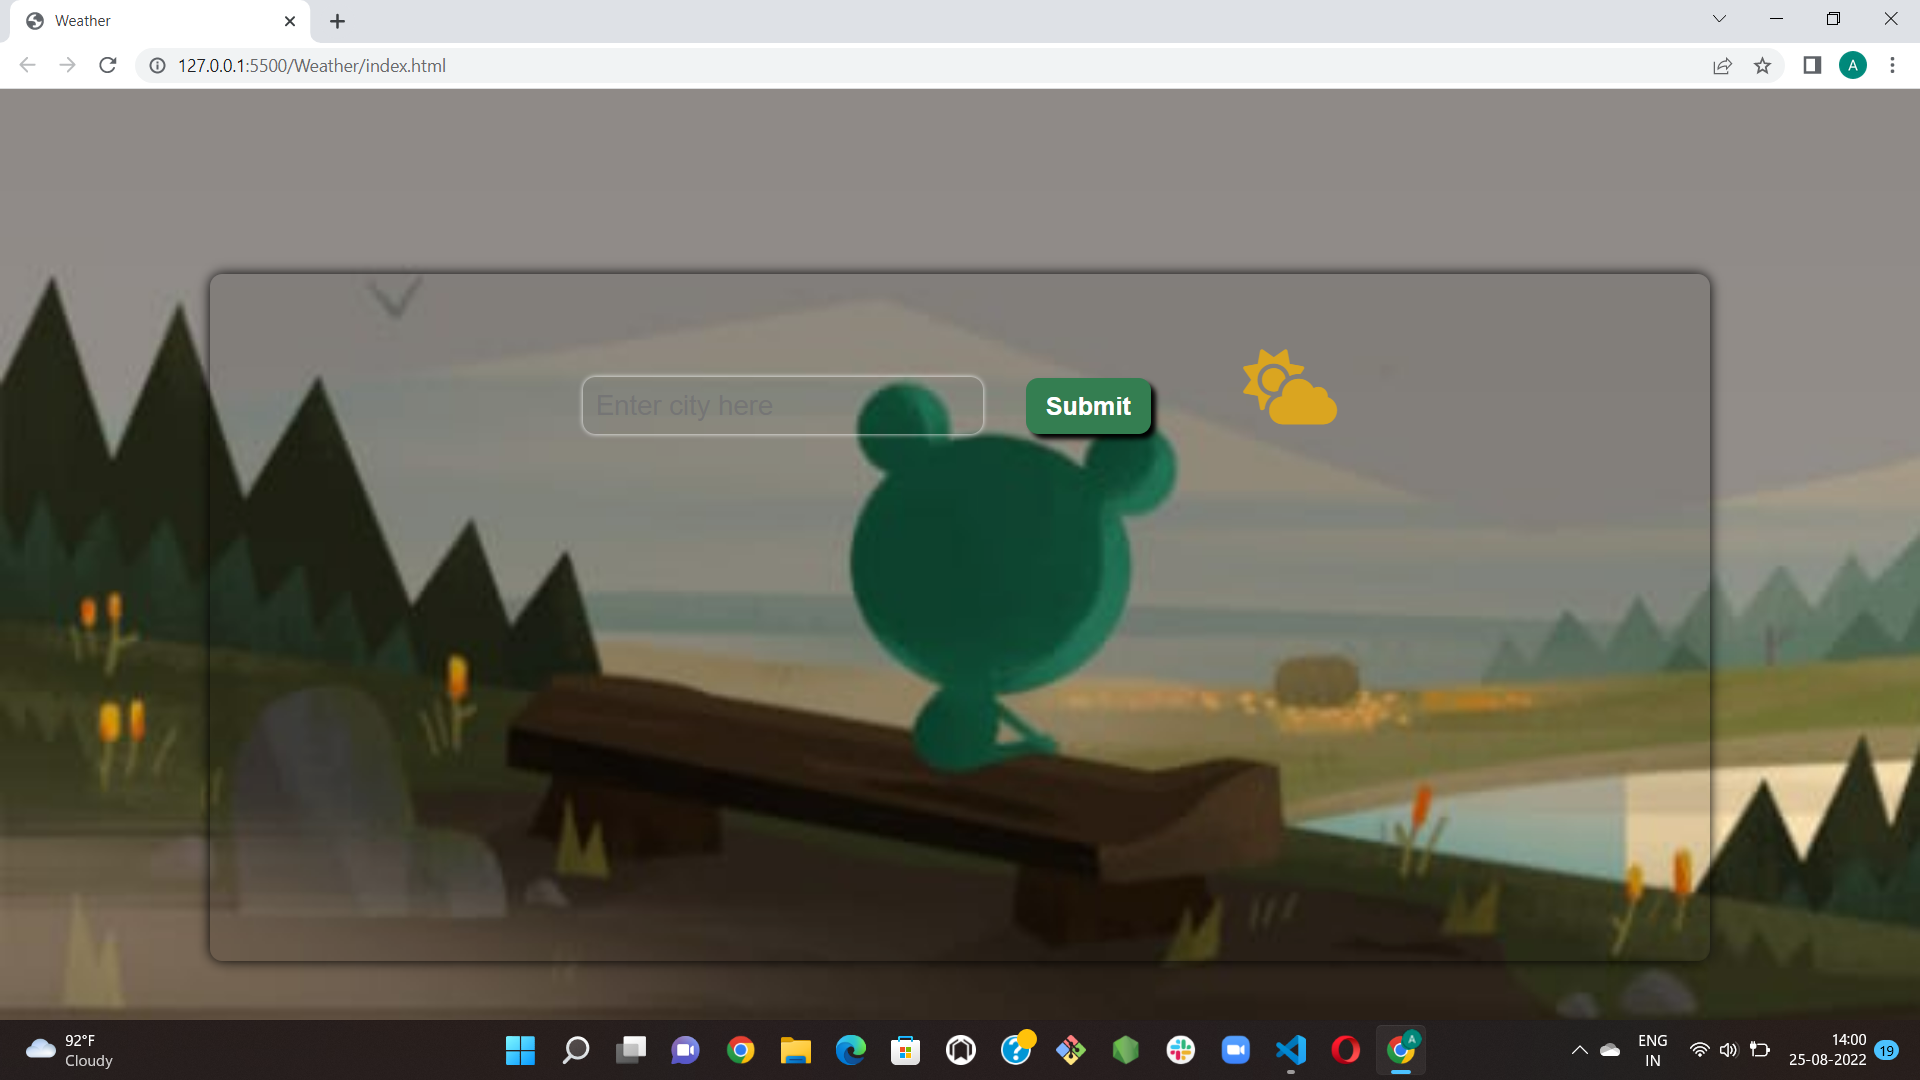
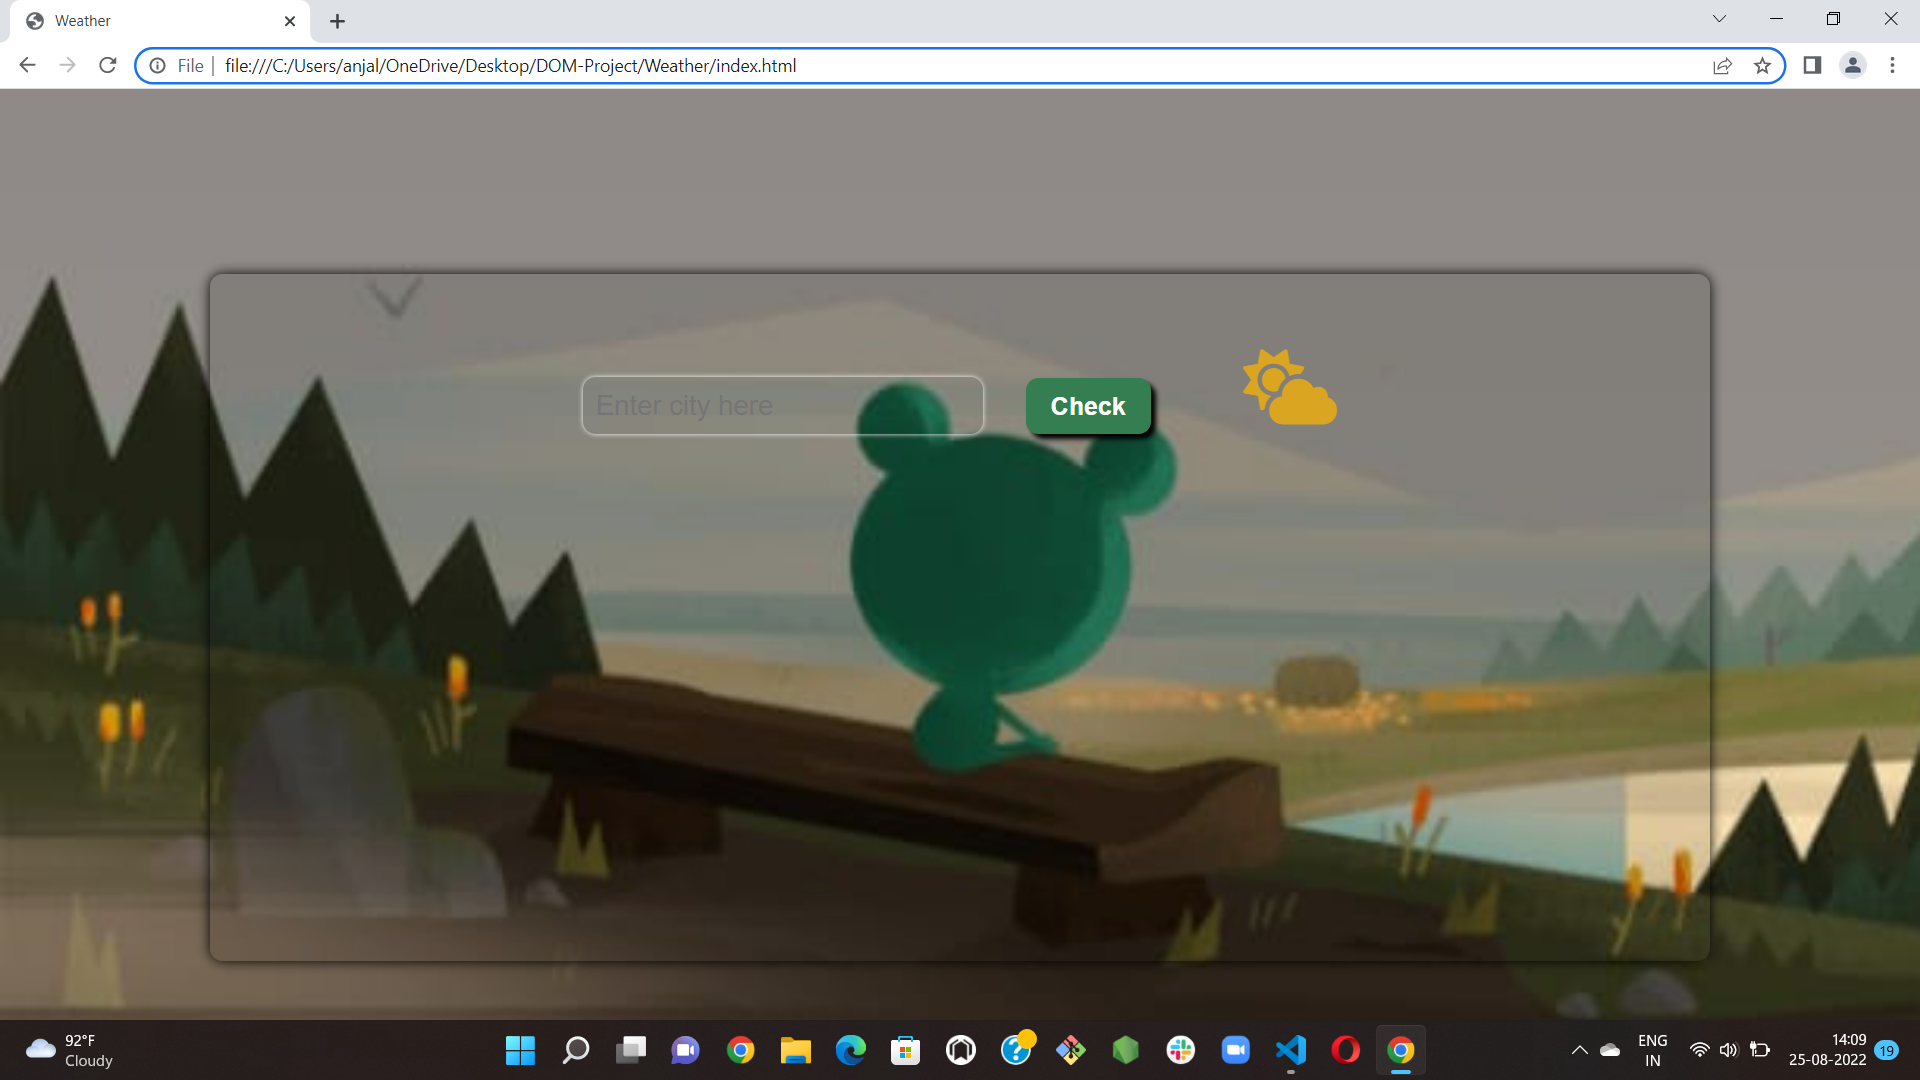
project

diff --git a/Weather/index.html b/Weather/index.html
@@ -19,7 +19,7 @@
     <div class="main-container">
         <div class="input-container">
             <input type="text" name="" placeholder="Enter city here" class="input">
-            <input type="submit" value="Submit" class="inputBtn">
+            <input type="submit" value="Check" class="inputBtn">
             <i class="fa-solid fa-cloud-sun"></i>
         </div>
         <div class="display">
